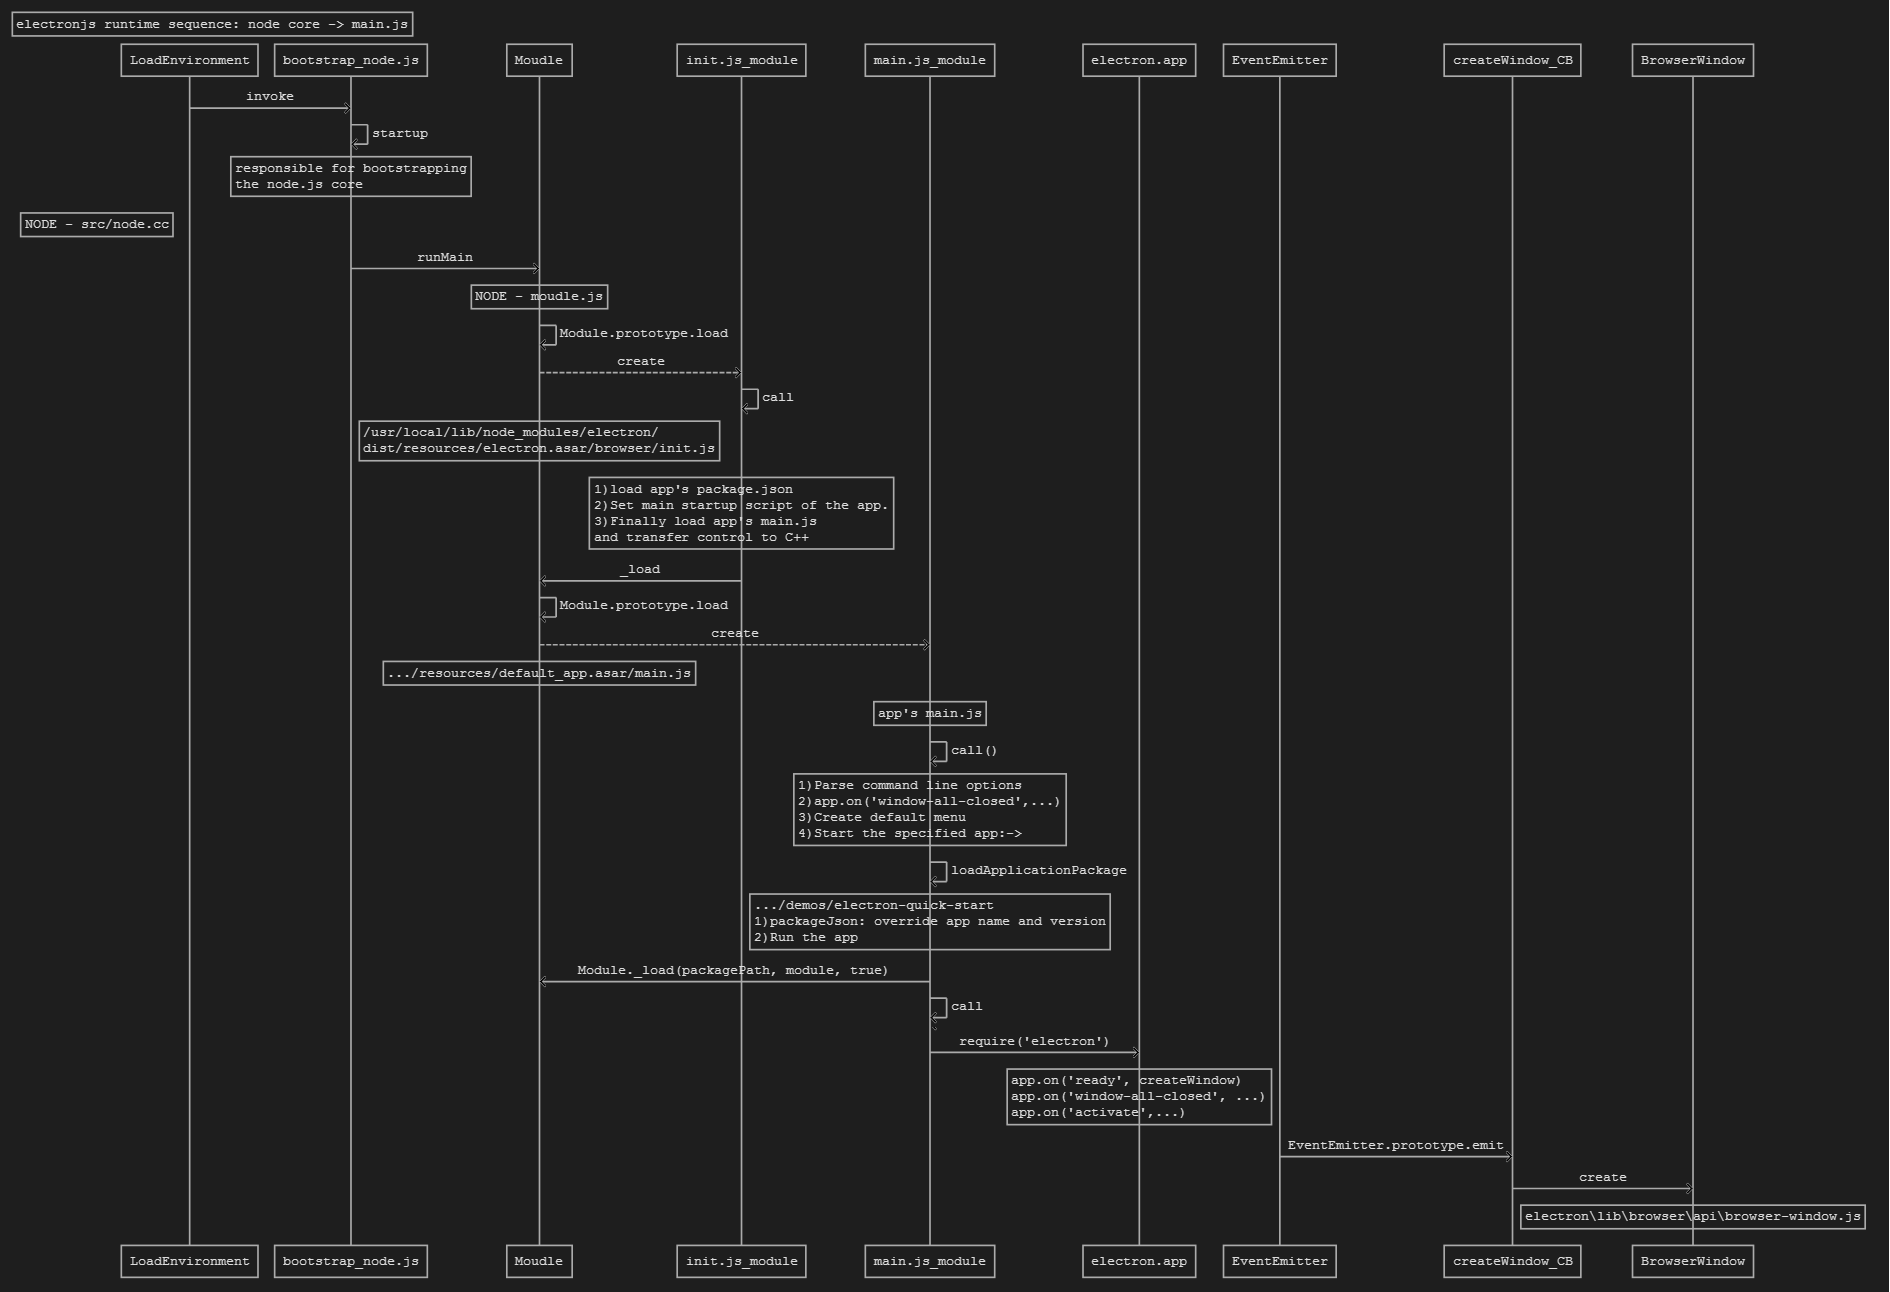
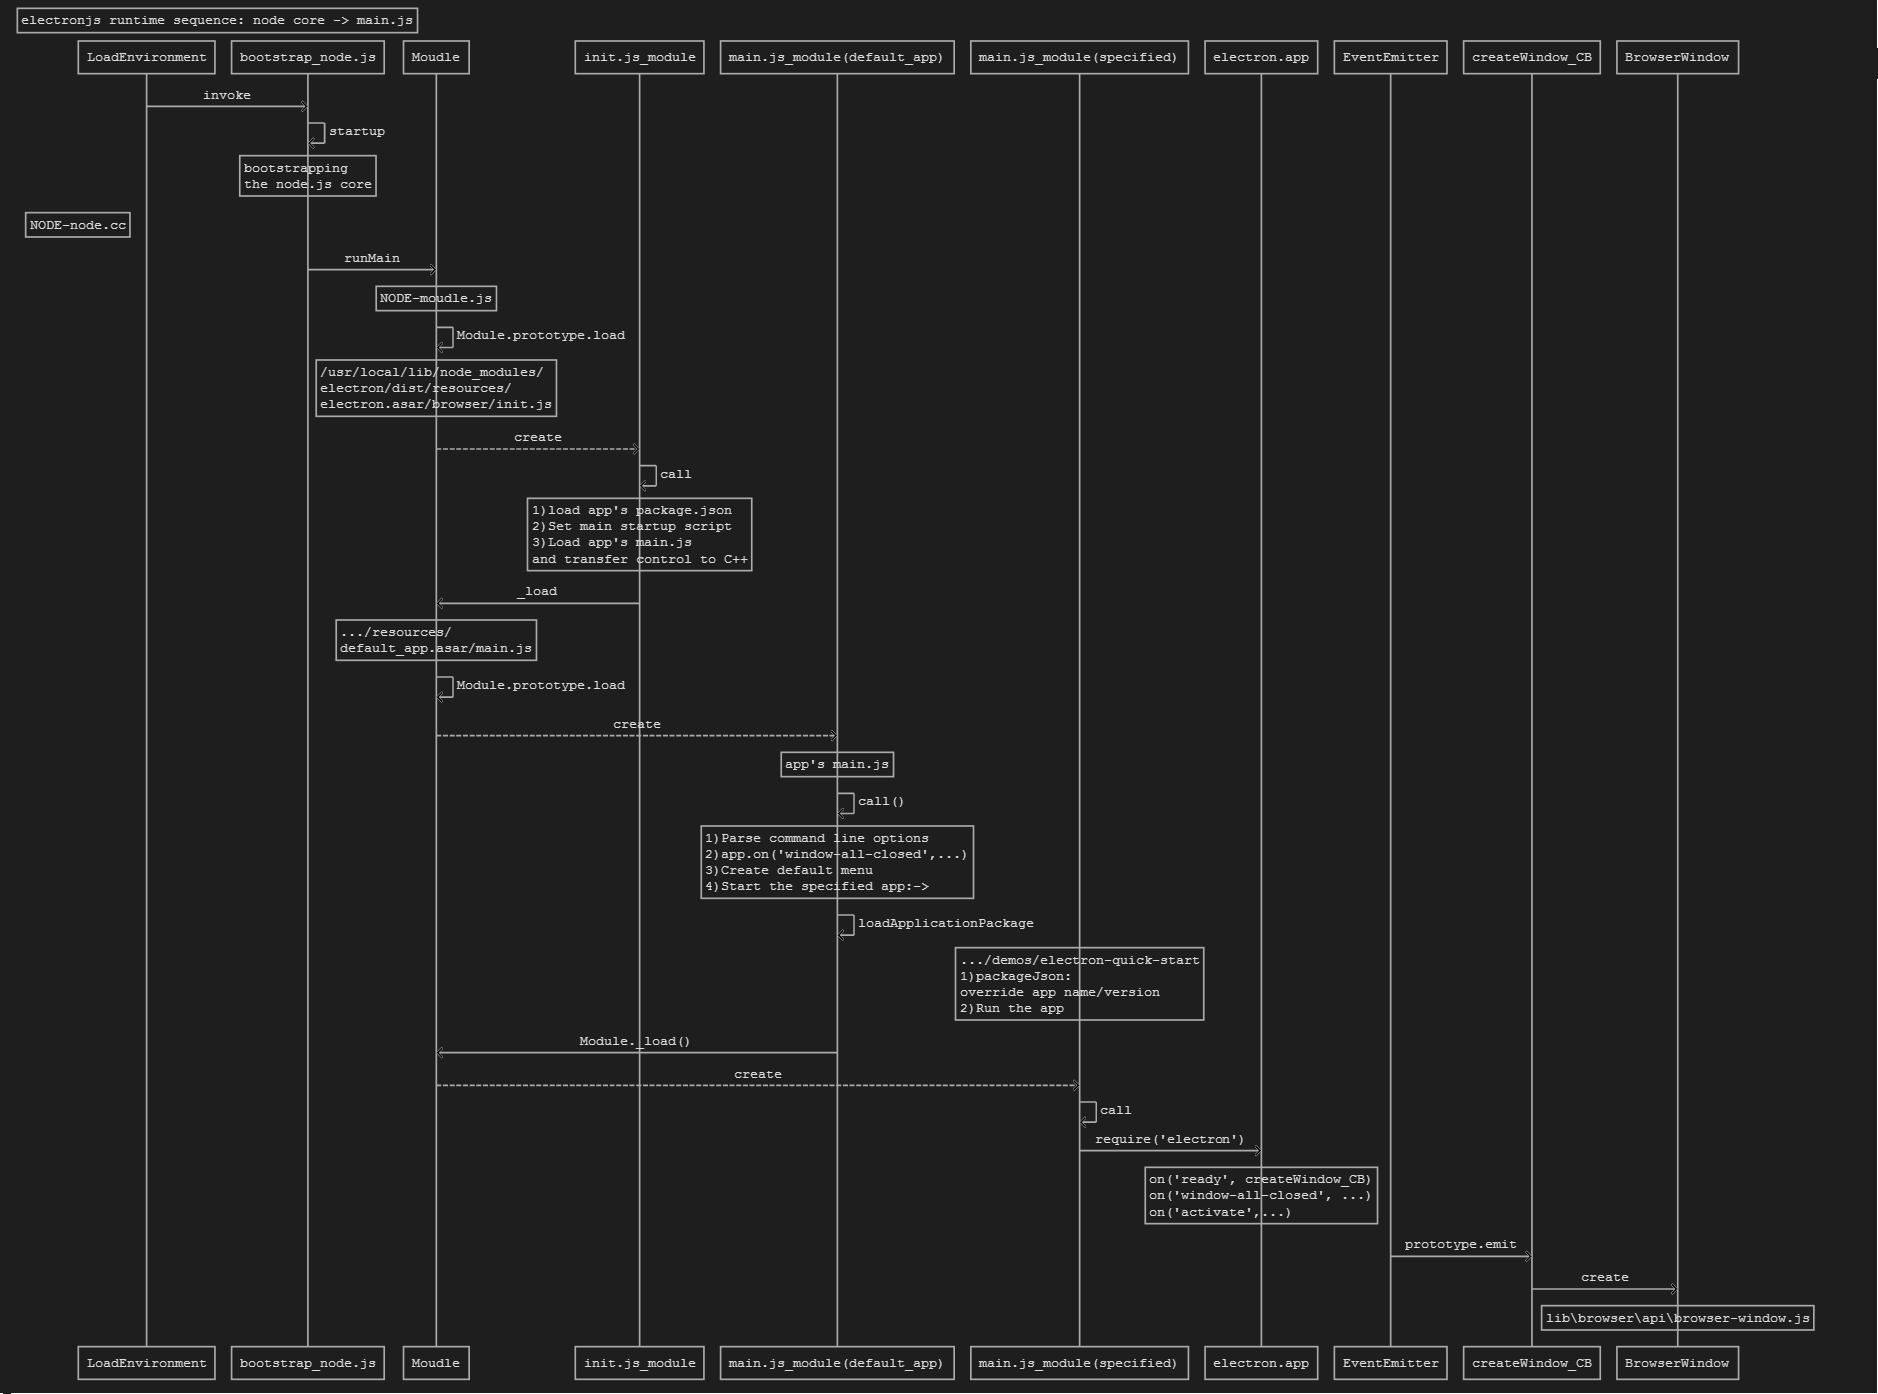
electron sequence part 1 update

diff --git a/electronjs/README.md b/electronjs/README.md
@@ -4,17 +4,19 @@
 ### 调试主进程
 使用如下的命令行开关来调试 Electron 的主进程：
 
-- --inspect=[port]
+- --inspect=[port]  
 当这个开关用于 Electron 时，它将会监听 V8 引擎中有关 port 的调试器协议信息。 默认的port 是 5858
 
 ```electron --inspect=5858 your/app```
 
-- --inspect-brk=[port]
+- --inspect-brk=[port]  
 和`--inspector` 一样，但是会在JavaScript 脚本的第一行暂停运行。
 
 
 ### 运行时时序图
 
 #### 1. [from node core to main.js](sequences/README.md)
+
+#### 2. [BrowserWindow](sequences/README.md)
 
 

diff --git a/electronjs/sequences/README.md b/electronjs/sequences/README.md
@@ -1,14 +1,12 @@
-electron_runtime_sequence
+# electron runtime sequence
 
-### 1. from node core to main.js  
-
+## part 1. from node core to main.js  
+![electron_runtime_sequence_1](electron_runtime_sequence_1.png)
 
 #### how to edit the diagram
 - install vs code plugin vscode-sequence-diagrams
 - open file **electron_runtime_sequence - from node core to main.js.seqdiag** in vscode
 - run Command `Show Sequence Diagram Preview`  
 
-![a](electron_runtime_sequence_1.png)
-
-
-### 2. BrowserWindow
+## part 2. BrowserWindow  
+TODO
